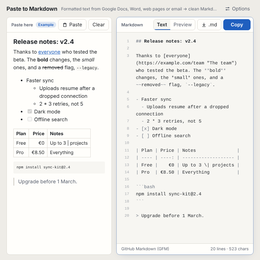
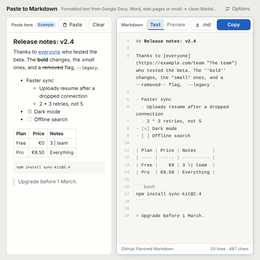
Paste to Markdown: paste from Docs, Word or the web, get Markdown you can trust
What it does: turns formatted text copied from Google Docs, Word/Outlook, web
pages, GitHub, VS Code or Notion into GitHub Flavored Markdown as you paste,
with no Convert button.

What changed for the person using it:
- One paste gives the result and one tap copies it. A worked example is shown
  on arrival and is replaced by the first paste.
- A new converter, tested against a CommonMark renderer. Google Docs bold
  and italic spans, nested lists and checklists convert correctly. So do
  Word/Outlook lists (also through Chrome's sanitised clipboard), Docs'
  google.com/url redirects and code-font paragraphs. GFM tables are aligned,
  with colspan, rowspan and escaped pipes.
- Escapes only what would otherwise be read as Markdown: snake_case and 2 * 3
  stay as typed.
- Says what was left out (video, frames, email-attached images) instead of
  dropping it silently.
- Plain-text pastes are kept as written. Large pastes convert in a worker
  and can be cancelled.
- The preview runs in a sandboxed frame. The old preview could run script
  from the pasted HTML. Nothing pasted loads remote images or leaves the
  browser.
- The old saved settings, last input and saved conversions all carry over.

Why it looks this way: the result is the larger pane, in a real monospace
with line numbers. Markdown syntax is dimmed so the words read first.
Changed lines flash briefly. The pasted text is shown as a document.
Options are folded away.
[…]

diff --git a/tools/paste_to_markdown.html b/tools/paste_to_markdown.html
@@ -51,24 +51,25 @@ main { flex: 1; display: grid; grid-template-columns: minmax(0, 1fr) minmax(0, 1
 .chip { font-size: 11.5px; font-weight: 600; color: var(--accent); background: var(--tint); border-radius: 99px; padding: 1px 8px; }
 .btn { border: 1px solid var(--line); background: var(--paper); border-radius: 8px; height: 34px; padding: 0 12px; cursor: pointer; white-space: nowrap; display: inline-flex; align-items: center; gap: 6px; }
 .btn:hover { border-color: var(--soft); }
-.btn.primary { background: var(--accent); color: var(--accent-ink); border-color: var(--accent); font-weight: 600; min-width: 84px; justify-content: center; }
+.btn.primary { background: var(--accent); color: var(--accent-ink); border-color: var(--accent); font-weight: 600; min-width: 104px; justify-content: center; }
 .btn.primary:hover { filter: brightness(1.08); }
 .btn.primary.done { background: var(--ok); border-color: var(--ok); }
-.btn:disabled { opacity: .45; cursor: default; }
+.btn:disabled { opacity: .5; cursor: default; }
+.btn.primary:disabled { background: var(--line); border-color: var(--line); color: var(--soft); opacity: 1; }
 button:focus-visible, [tabindex]:focus-visible, summary:focus-visible { outline: 2px solid var(--accent); outline-offset: 2px; }
 #input:focus-visible { outline: none; }
 #output:focus-visible { outline: none; box-shadow: inset 0 0 0 2px var(--tint); }
 .seg { display: inline-flex; border: 1px solid var(--line); border-radius: 8px; overflow: hidden; height: 34px; }
-.seg button { border: 0; background: none; padding: 0 10px; cursor: pointer; color: var(--soft); }
-.seg button[aria-pressed="true"] { background: var(--well); color: var(--ink); font-weight: 600; box-shadow: inset 0 -2px 0 var(--accent); }
+.seg button { border: 0; background: none; padding: 0 10px; min-width: 40px; cursor: pointer; color: var(--soft); }
+.seg button[aria-pressed="true"] { background: var(--tint); color: var(--accent); font-weight: 700; box-shadow: inset 0 -2px 0 var(--accent); }
 
 /* the pasted document: shown as a document */
 #input { flex: 1; overflow: auto; padding: 16px 20px 24px; font: 15.5px/1.55 var(--sans); outline: none; min-height: 0; overflow-wrap: anywhere; }
 #input.text { font: 14px/1.55 var(--mono); white-space: pre-wrap; }
 #input:empty::before { content: attr(data-placeholder); color: var(--soft); font-family: var(--sans); font-size: 15px; white-space: pre-line; }
-#input * { font-family: inherit; font-size: inherit; }
+#input * { font-family: inherit !important; font-size: inherit; }
 #input h1 { font-size: 1.5em; } #input h2 { font-size: 1.25em; } #input h3 { font-size: 1.08em; }
-#input pre, #input code, #input kbd, #input [style*="ourier"], #input [style*="ono"], #input [style*="onsolas"], #input [style*="enlo"] { font-family: var(--mono); font-size: .88em; background: var(--well); border-radius: 4px; }
+#input pre, #input code, #input kbd, #input .p2m-mono { font-family: var(--mono) !important; font-size: .88em; background: var(--well); border-radius: 4px; }
 #input h1, #input h2, #input h3, #input h4 { font-family: var(--sans); line-height: 1.25; margin: .9em 0 .4em; }
 #input h1 { font-size: 1.5em; } #input h2 { font-size: 1.25em; } #input h3 { font-size: 1.08em; }
 #input > :first-child, #input > :first-child > :first-child { margin-top: 0; }
@@ -79,8 +80,12 @@ button:focus-visible, [tabindex]:focus-visible, summary:focus-visible { outline:
 #input pre { padding: 8px 10px; white-space: pre-wrap; }
 #input a { color: var(--accent); }
 #input blockquote { margin: .6em 0; padding-left: 12px; border-left: 3px solid var(--line); color: var(--soft); }
-#input img { display: inline-block; min-width: 90px; min-height: 22px; border: 1px dashed var(--line); border-radius: 4px; vertical-align: middle; }
-#input img::before { content: "▣ " attr(alt); }
+#input .imgph { display: inline-block; font: 12.5px var(--sans); color: var(--soft); background: var(--well); border: 1px solid var(--line); border-radius: 6px; padding: 2px 8px; margin: 2px 0; }
+#input .imgph::before { content: "🖼 "; }
+#input .p2m-skip { display: none; }
+#input .p2m-li1, #input .p2m-li2, #input .p2m-li3 { margin: 0 0 .2em; padding-left: 1.4em; position: relative; }
+#input .p2m-li2 { margin-left: 1.6em; } #input .p2m-li3 { margin-left: 3.2em; }
+#input .p2m-li1::before, #input .p2m-li2::before, #input .p2m-li3::before { content: "•"; position: absolute; left: .3em; color: var(--soft); }
 #input .dropped { display: inline-block; font: 12.5px var(--sans); color: var(--ink); background: color-mix(in srgb, #e3a008 22%, transparent); border-radius: 6px; padding: 3px 10px; margin: 4px 0; }
 #input .dropped::before { content: "⚠ "; }
 
@@ -93,13 +98,13 @@ button:focus-visible, [tabindex]:focus-visible, summary:focus-visible { outline:
 #output { counter-reset: ln; padding-left: 0 !important; }
 #output .ln { display: block; min-height: 1.6em; border-radius: 3px; position: relative; padding-left: 4.2em; counter-increment: ln; }
 #output .ln.nw { white-space: pre; width: max-content; min-width: 100%; }
-#output .cs { white-space: nowrap; }
 #output .ln::before { content: counter(ln); position: absolute; left: 0; width: 3.2em; text-align: right; color: var(--mark); opacity: .6; font-size: .85em; line-height: 1.88; user-select: none; }
 #output.plain { padding-left: 20px !important; }
-#output .ln.new { animation: fresh 1.4s ease-out; }
+#output .ln.new { animation: fresh .9s ease-out; }
 @keyframes fresh { from { background: var(--tint); } to { background: transparent; } }
 @media (prefers-reduced-motion: reduce) { #output .ln.new { animation: none; } }
-#output .ph { color: var(--soft); font-family: var(--sans); white-space: normal; }
+#output .ph { display: block; color: var(--soft); font: 16px/1.5 var(--sans); white-space: normal; text-align: center; margin: 18% auto 0; max-width: 30ch; }
+#output .ph button { margin-top: 10px; }
 #preview { position: absolute; inset: 0; width: 100%; height: 100%; border: 0; background: var(--paper); }
 .busy { position: absolute; right: 12px; bottom: 12px; background: var(--paper); border: 1px solid var(--line); border-radius: 8px; padding: 6px 6px 6px 12px; display: flex; align-items: center; gap: 10px; font-size: 13px; box-shadow: 0 4px 16px rgba(0,0,0,.12); }
 .busy .spin { width: 14px; height: 14px; border: 2px solid var(--line); border-top-color: var(--accent); border-radius: 50%; animation: spin .8s linear infinite; }
@@ -110,7 +115,8 @@ button:focus-visible, [tabindex]:focus-visible, summary:focus-visible { outline:
 .inwrap { flex: 1; position: relative; min-height: 0; display: flex; flex-direction: column; }
 .note { padding: 8px 14px; font-size: 13.5px; color: var(--ink); background: var(--err-bg); border-bottom: 1px solid var(--line); box-shadow: inset 3px 0 0 var(--err); }
 .note:empty { display: none; }
-.drop:not(:empty) { color: var(--ink); background: color-mix(in srgb, #e3a008 22%, transparent); border-radius: 6px; padding: 1px 8px; order: -1; flex-basis: 100%; }
+.drop { padding: 7px 14px; font-size: 13px; background: color-mix(in srgb, #e3a008 20%, var(--paper)); border-bottom: 1px solid var(--line); box-shadow: inset 3px 0 0 #d4930a; }
+.drop:empty { display: none; }
 
 /* options */
 #opts { position: absolute; right: 20px; top: 52px; z-index: 5; width: min(420px, calc(100vw - 32px)); background: var(--paper); border: 1px solid var(--line); border-radius: 10px; box-shadow: 0 12px 40px rgba(0,0,0,.18); padding: 14px 16px 16px; max-height: calc(100vh - 70px); overflow: auto; }
@@ -132,6 +138,8 @@ button:focus-visible, [tabindex]:focus-visible, summary:focus-visible { outline:
   .bar { padding-left: 12px; min-height: 44px; }
   #input { padding: 12px 14px; font-size: 15px; }
   #output { padding: 12px 14px; font-size: 13px; }
+  #output .ln { padding-left: 3em; }
+  #output .ln::before { width: 2.3em; }
   .hide-s { display: none; }
   .out .bar h2 { position: absolute; width: 1px; height: 1px; overflow: hidden; clip: rect(0 0 0 0); }
   .out .bar .seg { margin-right: auto; }
@@ -161,10 +169,11 @@ button:focus-visible, [tabindex]:focus-visible, summary:focus-visible { outline:
   <div class="opt"><span id="l-c">Code blocks</span><div class="seg" role="group" aria-labelledby="l-c" data-key="codeBlockStyle"><button data-v="fenced">```</button><button data-v="indented">indented</button></div></div>
   <div class="opt"><span id="l-l">Links</span><div class="seg" role="group" aria-labelledby="l-l" data-key="linkStyle"><button data-v="inlined">[a](url)</button><button data-v="referenced">[a][1]</button></div></div>
   <div class="opt"><span id="l-t">Theme</span><div class="seg" role="group" aria-labelledby="l-t" id="themeSeg"><button data-t="">System</button><button data-t="false">Light</button><button data-t="true">Dark</button></div></div>
-  <h3 style="margin-top:16px">Saved conversions</h3>
-  <button class="btn" id="saveBtn">Save this one <span class="m hide-s" style="color:var(--soft);font-size:12px">Ctrl+S</span></button>
+  <details style="margin-top:12px"><summary style="cursor:pointer;color:var(--soft);font-size:14px;padding:6px 0">Saved conversions</summary>
+  <button class="btn" id="saveBtn" style="margin-top:6px">Save this one <span class="m hide-s" style="color:var(--soft);font-size:12px">Ctrl+S</span></button>
   <ul id="saved"></ul>
-  <p class="small">Saved conversions and your last input stay in this browser only. Nothing you paste is uploaded.</p>
+  </details>
+  <p class="small" style="display:flex;gap:10px;align-items:center"><span style="flex:1">Saved conversions and your last input stay in this browser only. Nothing you paste is uploaded.</span><button class="btn primary" id="optDone">Done</button></p>
 </div>
 
 <main>
@@ -190,14 +199,14 @@ button:focus-visible, [tabindex]:focus-visible, summary:focus-visible { outline:
       <button class="btn" id="dlBtn" aria-label="Download as .md file"><svg width="15" height="15" viewBox="0 0 16 16" aria-hidden="true"><path fill="currentColor" d="M7.25 1.5h1.5v7.2l2.5-2.5 1.06 1.06L8 11.56 3.69 7.26 4.75 6.2l2.5 2.5zM2.5 13h11v1.5h-11z"/></svg><span>.md</span></button>
       <button class="btn primary" id="copyBtn">Copy</button>
     </div>
+    <div id="dropped" class="drop" role="status"></div>
     <div class="well">
       <pre id="output" tabindex="0" aria-labelledby="outLabel" aria-describedby="method"></pre>
       <iframe id="preview" hidden title="Markdown preview" sandbox="allow-same-origin"></iframe>
       <div class="busy" id="busy" hidden><span class="spin" aria-hidden="true"></span><span id="busyText">Converting…</span><button class="btn" id="cancelBtn">Cancel</button></div>
     </div>
     <div class="foot">
-      <span id="method" title="CommonMark plus GitHub tables, task lists and strikethrough">GitHub Markdown (GFM)</span>
-      <span id="dropped" class="drop"></span>
+      <span id="method" title="CommonMark plus GitHub tables, task lists and strikethrough">GitHub Flavored Markdown</span>
       <span class="count" id="count"></span>
     </div>
   </section>
@@ -230,6 +239,11 @@ button:focus-visible, [tabindex]:focus-visible, summary:focus-visible { outline:
       var at = node.attributes[i]; el.a[String(at.name).toLowerCase()] = at.value;
     }
     if (el.a['data-dropped'] && DROP[el.a['data-dropped']]) return {t: 1, n: el.a['data-dropped'], a: {}, c: []};
+    if (/\bimgph\b/.test(el.a['class'] || '')) return {t: 1, n: 'img', a: {src: el.a['data-src'] || '', alt: el.a['data-alt'] || '', title: el.a['data-title'] || ''}, c: []};
+    // the page's editor may rewrite style attributes it does not know; classes carry what matters
+    if (/\bp2m-mono\b/.test(el.a['class'] || '')) el.a.style = (el.a.style || '') + ';font-family:monospace';
+    if (/\bp2m-skip\b/.test(el.a['class'] || '')) el.a.style = (el.a.style || '') + ';mso-list:ignore';
+    var li = /\bp2m-li(\d)\b/.exec(el.a['class'] || ''); if (li && !/mso-list/i.test(el.a.style || '')) el.a.style = (el.a.style || '') + ';mso-list:l0 level' + li[1] + ' lfo1';
     if (el.n === 'img' && el.a['data-src'] != null && el.a.src == null) el.a.src = el.a['data-src'];
     if (el.n === 'input' && node.checked) el.a.checked = '';
     var kids = node.nodeName === 'TEMPLATE' ? [] : node.childNodes;
@@ -651,14 +665,33 @@ button:focus-visible, [tabindex]:focus-visible, summary:focus-visible { outline:
   // ---- lists -------------------------------------------------------------------------------------
   // Word writes list items as <p class=MsoListParagraph style="mso-list:l0 level2 lfo1">; Google Docs
   // can write flat <li aria-level="2">. Both are rebuilt into nested lists before conversion.
+  // Without Word's styles (a sanitised clipboard), its list paragraphs still start with the bullet
+  // glyph Word draws, padded with no-break spaces: · for the first level, o for the second, § for the third.
+  var GLYPH = /^[\s]*([\u00b7\u2022\u25aa\u25cf\u00a7\uf0b7\uf0a7o]|\(?(?:\d{1,3}|[a-z]|[ivx]{1,4})[.)])[\u00a0]+ ?(?=\S)/i;
   function wordLevel(k) {
     if (k.t !== 1 || k.n !== 'p') return 0;
     var m = /mso-list:\s*l\d+\s+level(\d+)/i.exec(k.a.style || '');
-    return m ? +m[1] : 0;
+    if (m) return +m[1];
+    var g = GLYPH.exec(textOf(k).replace(/^[\u00a0 ]+/, ''));
+    if (!g) return 0;
+    return /^[o\uf0a7]$/.test(g[1]) ? 2 : /^[\u00a7\u25aa]$/.test(g[1]) ? 3 : 1;
+  }
+  function stripGlyph(c) {
+    // remove the bullet text (which may span several text nodes) from the start of the paragraph
+    var full = textOf({t: 1, c: c}), lead = /^[\u00a0 ]*/.exec(full)[0].length;
+    var g = GLYPH.exec(full.slice(lead)), left = lead + (g ? g[0].length : 0);
+    return (function cut(list) {
+      return list.map(function (n) {
+        if (left <= 0) return n;
+        if (n.t === 3) { var k = Math.min(left, n.v.length); left -= k; return {t: 3, v: n.v.slice(k)}; }
+        return {t: 1, n: n.n, a: n.a, c: cut(n.c)};
+      });
+    })(c);
   }
   function wordOrdered(k) {
     var t = '';
     (function walk(n) { if (n.t === 3) return; if (isIgnoredWordBullet(n)) { t += textOf(n); return; } n.c.forEach(walk); })(k);
+    if (!t) { var g = GLYPH.exec(textOf(k).replace(/^[\u00a0 ]+/, '')); t = g ? g[1] : ''; }
     return /^\s*\(?([0-9]+|[a-z]{1,2}|[ivxlc]+)[.)]/i.test(t);
   }
   function regroupWordLists(kids) {
@@ -666,8 +699,13 @@ button:focus-visible, [tabindex]:focus-visible, summary:focus-visible { outline:
     while (i < kids.length) {
       if (!wordLevel(kids[i])) { out.push(kids[i]); i++; continue; }
       var run = [];
-      while (i < kids.length && (wordLevel(kids[i]) || (kids[i].t === 3 && !kids[i].v.trim()))) { if (kids[i].t === 1) run.push(kids[i]); i++; }
-      out.push(nestByLevel(run.map(function (p) { return {lvl: wordLevel(p), ordered: wordOrdered(p), li: {t: 1, n: 'li', a: {}, c: [{t: 1, n: 'span', a: {}, c: p.c}]}}; })));
+      var firstOrd = wordOrdered(kids[i]), baseLvl = wordLevel(kids[i]);
+      while (i < kids.length && (wordLevel(kids[i]) || (kids[i].t === 3 && !kids[i].v.trim()))) {
+        // a numbered list right after a bulleted one (or the reverse) is a new list
+        if (kids[i].t === 1 && run.length && wordLevel(kids[i]) <= baseLvl && wordOrdered(kids[i]) !== firstOrd) break;
+        if (kids[i].t === 1) run.push(kids[i]); i++;
+      }
+      out.push(nestByLevel(run.map(function (p) { return {lvl: wordLevel(p), ordered: wordOrdered(p), li: {t: 1, n: 'li', a: {}, c: [{t: 1, n: 'span', a: {}, c: /mso-list/i.test(p.a.style || '') ? p.c : stripGlyph(p.c)}]}}; })));
     }
     return out;
   }
@@ -888,11 +926,18 @@ button:focus-visible, [tabindex]:focus-visible, summary:focus-visible { outline:
         var css = parseStyle(v), keep = [];
         for (var p in css) if (KEEP_CSS.test(p) && !/url\(|expression/i.test(css[p])) keep.push(p + ':' + css[p]);
         if (keep.length) at += ' style="' + esc(keep.join(';')) + '"';
-      } else if (k === 'src' && tag === 'img') at += ' data-src="' + esc(v) + '"';
+      }
       else if (k === 'href') { var h = cleanHref(v); if (h) at += ' href="' + esc(h) + '"'; }
-      else if (ATTRS[k]) at += ' ' + k + '="' + esc(v) + '"';
+      else if (ATTRS[k] && k !== 'class') at += ' ' + k + '="' + esc(v) + '"';
     }
+    var css0 = parseStyle(n.a.style), extra = [];
+    if (n.a['class']) extra.push(n.a['class']);
+    if (css0['font-family'] && MONO.test(css0['font-family'])) extra.push('p2m-mono');
+    if (isIgnoredWordBullet(n)) extra.push('p2m-skip');
+    var wl = /mso-list:\s*l\d+\s+level(\d+)/i.exec(n.a.style || ''); if (wl && tag === 'p') extra.push('p2m-li' + Math.min(+wl[1], 3));
+    if (extra.length) at += ' class="' + esc(extra.join(' ')) + '"';
     if (tag === 'input') return (n.a.type || '').toLowerCase() === 'checkbox' ? '<input type="checkbox" disabled' + (n.a.checked != null ? ' checked' : '') + '>' : '';
+    if (tag === 'img') return '<span class="imgph" contenteditable="false" data-src="' + esc(n.a.src || '') + '" data-alt="' + esc(n.a.alt || '') + '" data-title="' + esc(n.a.title || '') + '">' + esc(/^cid:/i.test(n.a.src || '') ? 'image attached to the email' : n.a.alt || 'image') + '</span>';
     if (VOID[tag]) return '<' + tag + at + '>';
     return '<' + tag + at + '>' + n.c.map(safeHTML).join('') + '</' + tag + '>';
   }
@@ -927,7 +972,7 @@ button:focus-visible, [tabindex]:focus-visible, summary:focus-visible { outline:
     '<ul><li>Faster sync<ul><li>Uploads resume after a dropped connection</li><li>2 * 3 retries, not 5</li></ul></li>' +
     '<li><input type="checkbox" checked> Dark mode</li><li><input type="checkbox"> Offline search</li></ul>' +
     '<table><thead><tr><th>Plan</th><th style="text-align:right">Price</th><th>Notes</th></tr></thead>' +
-    '<tbody><tr><td>Free</td><td style="text-align:right">€0</td><td>Up to 3 | projects</td></tr><tr><td>Pro</td><td style="text-align:right">€8.50</td><td>Everything</td></tr></tbody></table>' +
+    '<tbody><tr><td>Free</td><td style="text-align:right">€0</td><td>3 | team</td></tr><tr><td>Pro</td><td style="text-align:right">€8.50</td><td>Everything</td></tr></tbody></table>' +
     '<pre><code class="language-bash">npm install sync-kit@2.4</code></pre>' +
     '<blockquote><p>Upgrade before 1 March.</p></blockquote>';
 
@@ -954,6 +999,7 @@ button:focus-visible, [tabindex]:focus-visible, summary:focus-visible { outline:
     if (show) { renderSaved(); optsEl.querySelector('button').focus(); }
   }
   optBtn.addEventListener('click', function () { toggleOpts(); });
+  $('optDone').addEventListener('click', function () { toggleOpts(false); optBtn.focus(); });
   document.addEventListener('click', function (e) { if (!optsEl.hidden && !optsEl.contains(e.target) && !optBtn.contains(e.target)) toggleOpts(false); });
 
   // ---- theme ----
@@ -978,7 +1024,8 @@ button:focus-visible, [tabindex]:focus-visible, summary:focus-visible { outline:
   var sourceTree = null;    // tree straight from the clipboard, more faithful than the pane's re-rendering
   var isExample = false, quiet = false;
 
-  function setNote(msg, isErr) { note.textContent = msg || ''; note.classList.toggle('err', !!isErr); }
+  var noteTimer = 0;
+  function setNote(msg, isErr) { note.textContent = msg || ''; note.classList.toggle('err', !!isErr); clearTimeout(noteTimer); if (msg) noteTimer = setTimeout(function () { note.textContent = ''; }, 9000); }
   function setExample(on) { isExample = on; $('exampleChip').hidden = !on; var has = !on && !!(input.textContent.trim() || input.querySelector('img,table')); document.body.classList.toggle('has-input', has); $('inTitle').textContent = has ? 'Your text' : 'Paste here'; }
 
   function looksLikeHTML(t) { return /^\s*(<!doctype|<html|<body|<(p|div|h[1-6]|ul|ol|table|span|a|b|strong|em|i|section|article|pre|blockquote|br|img|meta)\b[^>]*>)/i.test(t) && /<\/?[a-z][^>]*>/i.test(t); }
@@ -1030,7 +1077,14 @@ button:focus-visible, [tabindex]:focus-visible, summary:focus-visible { outline:
     return r.compareBoundaryPoints(Range.START_TO_START, all) <= 0 && r.compareBoundaryPoints(Range.END_TO_END, all) >= 0;
   }
 
-  input.addEventListener('paste', function (e) {
+  // a paste anywhere on the page lands in the input
+  document.addEventListener('paste', function (e) {
+    if (input.contains(e.target) || optsEl.contains(e.target)) return;
+    input.focus(); onPaste(e, true);
+  });
+  input.addEventListener('paste', function (e) { onPaste(e, false); });
+  function onPaste(e, outside) {
+    $('copyBtn').textContent = 'Copy'; $('copyBtn').classList.remove('done');
     var cd = e.clipboardData; if (!cd) return;
     var html = cd.getData('text/html'), text = cd.getData('text/plain');
     if (!html && !text) {
@@ -1041,10 +1095,10 @@ button:focus-visible, [tabindex]:focus-visible, summary:focus-visible { outline:
       return;
     }
     e.preventDefault();
-    var how = replacing() ? 'replace' : 'insert';
+    var how = outside || replacing() ? 'replace' : 'insert';
     if (html) load(html, true, how);
     else load(text, looksLikeHTML(text), how);
-  });
+  }
   input.addEventListener('drop', function (e) {
     var dt = e.dataTransfer; if (!dt) return;
     var f = dt.files && dt.files[0];
@@ -1072,7 +1126,9 @@ button:focus-visible, [tabindex]:focus-visible, summary:focus-visible { outline:
   $('pasteBtn').addEventListener('click', function () {
     var fail = function () { setNote('Your browser did not allow reading the clipboard. Tap the box and paste there (Ctrl+V, ⌘V, or long-press → Paste).', true); input.focus(); };
     if (navigator.clipboard && navigator.clipboard.read) {
-      navigator.clipboard.read().then(function (items) {
+      // Chrome sanitises clipboard HTML unless asked not to, which strips Word's list styles
+      var rd; try { rd = navigator.clipboard.read({unsanitized: ['text/html']}); } catch (x) { rd = navigator.clipboard.read(); }
+      rd.catch(function () { return navigator.clipboard.read(); }).then(function (items) {
         var it = items[0]; if (!it) return fail();
         if (it.types.indexOf('text/html') >= 0) return it.getType('text/html').then(function (b) { return b.text(); }).then(function (h) { load(h, true, 'replace'); });
         if (it.types.indexOf('text/plain') >= 0) return it.getType('text/plain').then(function (b) { return b.text(); }).then(function (t) { load(t, looksLikeHTML(t), 'replace'); });
@@ -1120,6 +1176,7 @@ button:focus-visible, [tabindex]:focus-visible, summary:focus-visible { outline:
   function done(r) {
     clearTimeout(busyTimer); $('busy').hidden = true;
     if (r.error) { setNote('Something in this paste could not be converted (' + r.error + '). Try copying a smaller part.', true); return; }
+    if (r.markdown !== current) { clearTimeout(copyTimer); $('copyBtn').textContent = 'Copy'; $('copyBtn').classList.remove('done'); }
     current = r.markdown; lastDropped = r.dropped || {};
     paint();
   }
@@ -1146,7 +1203,7 @@ button:focus-visible, [tabindex]:focus-visible, summary:focus-visible { outline:
     var md = current, lines = md ? md.split('\n') : [];
     if (!md) {
       var dr = Object.keys(lastDropped);
-      output.classList.add('plain'); output.innerHTML = '<span class="ph">' + (dr.length ? 'Nothing to convert: the paste only had ' + esc(dr.join(', ')) + ', which Markdown has no way to write.' : 'Your Markdown appears here as soon as you paste.') + '</span>';
+      output.classList.add('plain'); output.innerHTML = '<span class="ph">' + (dr.length ? 'Nothing to convert: the paste only had ' + esc(dr.join(', ')) + ', which Markdown has no way to write.' : 'Paste formatted text into the box and its Markdown appears here.<br><button class="btn" type="button" data-example>Show the example</button>') + '</span>';
     } else if (md.length > 400000) {
       output.textContent = md; output.classList.add('plain');
     } else {
@@ -1160,9 +1217,9 @@ button:focus-visible, [tabindex]:focus-visible, summary:focus-visible { outline:
     }
     lastLines = lines;
     var words = md ? (md.replace(/[#*_`~>|\[\]()!-]+/g, ' ').match(/\S+/g) || []).length : 0;
-    $('count').textContent = md ? fmt(lines.length) + ' lines · ' + fmt(md.length) + ' chars' : '';
+    $('count').textContent = md ? fmt(lines.length) + ' lines · ' + fmt(md.length) + ' chars' + (md.length > 400000 ? ' · no line numbers (large)' : '') : '';
     var dr2 = Object.keys(lastDropped).map(function (k) { return lastDropped[k] + ' ' + k + (lastDropped[k] > 1 ? 's' : ''); });
-    $('dropped').textContent = dr2.length && md ? '⚠ Left out: ' + dr2.join(', ') + ' (Markdown cannot hold it)' : '';
+    $('dropped').textContent = dr2.length && md ? '⚠ Left out: ' + dr2.join(', ') + (Object.keys(lastDropped).reduce(function (a, k) { return a + lastDropped[k]; }, 0) > 1 ? ' — Markdown has no way to write these' : ' — Markdown has no way to write it') : '';
     $('copyBtn').disabled = $('dlBtn').disabled = !md;
     announce(md ? 'Markdown updated: ' + fmt(lines.length) + ' lines, ' + fmt(words) + ' words.' : 'No Markdown yet.');
     if (!preview.hidden) renderPreview();
@@ -1187,9 +1244,29 @@ button:focus-visible, [tabindex]:focus-visible, summary:focus-visible { outline:
     if (navigator.clipboard && navigator.clipboard.writeText) navigator.clipboard.writeText(current).then(ok, fallback); else fallback();
   }
   copyBtn.addEventListener('click', copy);
+  output.addEventListener('click', function (e) { if (e.target.closest('[data-example]')) { load(EXAMPLE, true, 'example'); setExample(true); } });
+  ['copyBtn', 'dlBtn', 'viewMd', 'viewPv', 'optBtn', 'pasteBtn', 'clearBtn'].forEach(function (id) { $(id).addEventListener('click', function () { if (note.classList.contains('err') && id !== 'pasteBtn') setNote(''); }, true); });
+  output.addEventListener('keydown', function (e) {
+    if ((e.ctrlKey || e.metaKey) && e.key.toLowerCase() === 'a') { e.preventDefault(); var r = document.createRange(); r.selectNodeContents(output); var sl = getSelection(); sl.removeAllRanges(); sl.addRange(r); }
+  });
+  // copying a hand-made selection: one line per line, whatever the browser makes of the blocks
+  output.addEventListener('copy', function (e) {
+    var sel = getSelection(); if (!sel.rangeCount || !e.clipboardData) return;
+    var r = sel.getRangeAt(0), lines = [];
+    output.querySelectorAll('.ln').forEach(function (ln) {
+      if (!r.intersectsNode(ln)) return;
+      var part = document.createRange(); part.selectNodeContents(ln);
+      if (r.compareBoundaryPoints(Range.START_TO_START, part) > 0) part.setStart(r.startContainer, r.startOffset);
+      if (r.compareBoundaryPoints(Range.END_TO_END, part) < 0) part.setEnd(r.endContainer, r.endOffset);
+      lines.push(part.toString());
+    });
+    if (!lines.length) return;
+    e.preventDefault(); e.clipboardData.setData('text/plain', lines.join('\n'));
+  });
   function download() {
     if (!current) return;
     var h = /^#{1,6} (.+)$/m.exec(current) || /^(.+)\n[=-]{3,}$/m.exec(current);
+    if (!h) h = /^\W*(.+)$/m.exec(current);
     var name = h ? h[1].replace(/[\\*_`\[\]()#<>:"/|?]/g, '').trim().toLowerCase().replace(/\s+/g, '-').slice(0, 60) : '';
     var a = document.createElement('a');
     a.href = URL.createObjectURL(new Blob([current + '\n'], {type: 'text/markdown;charset=utf-8'}));
